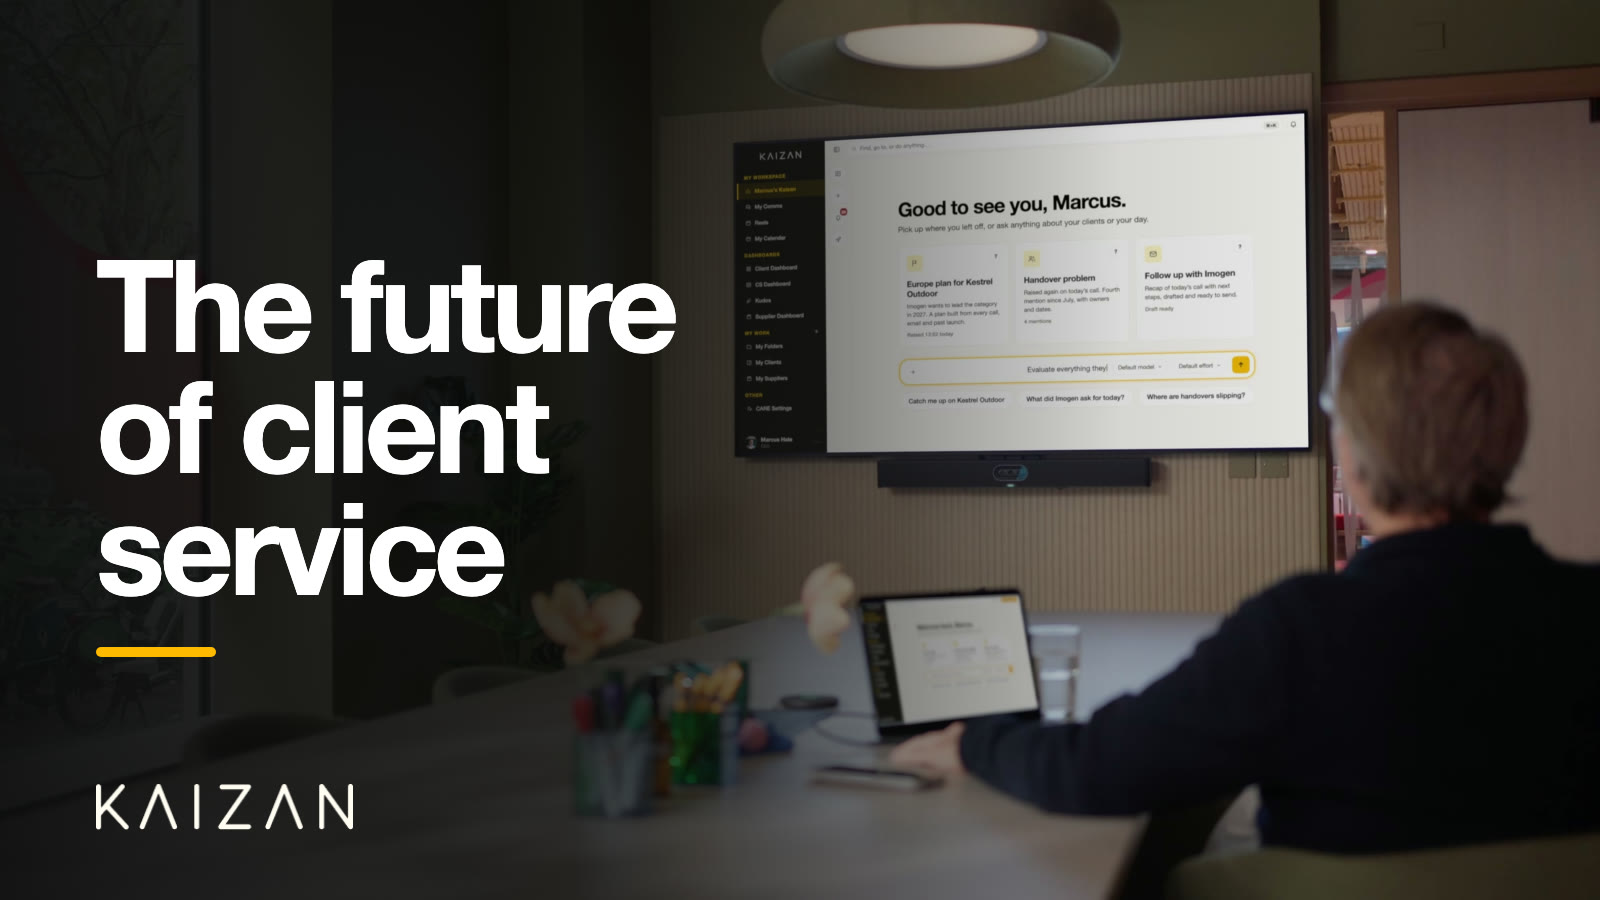
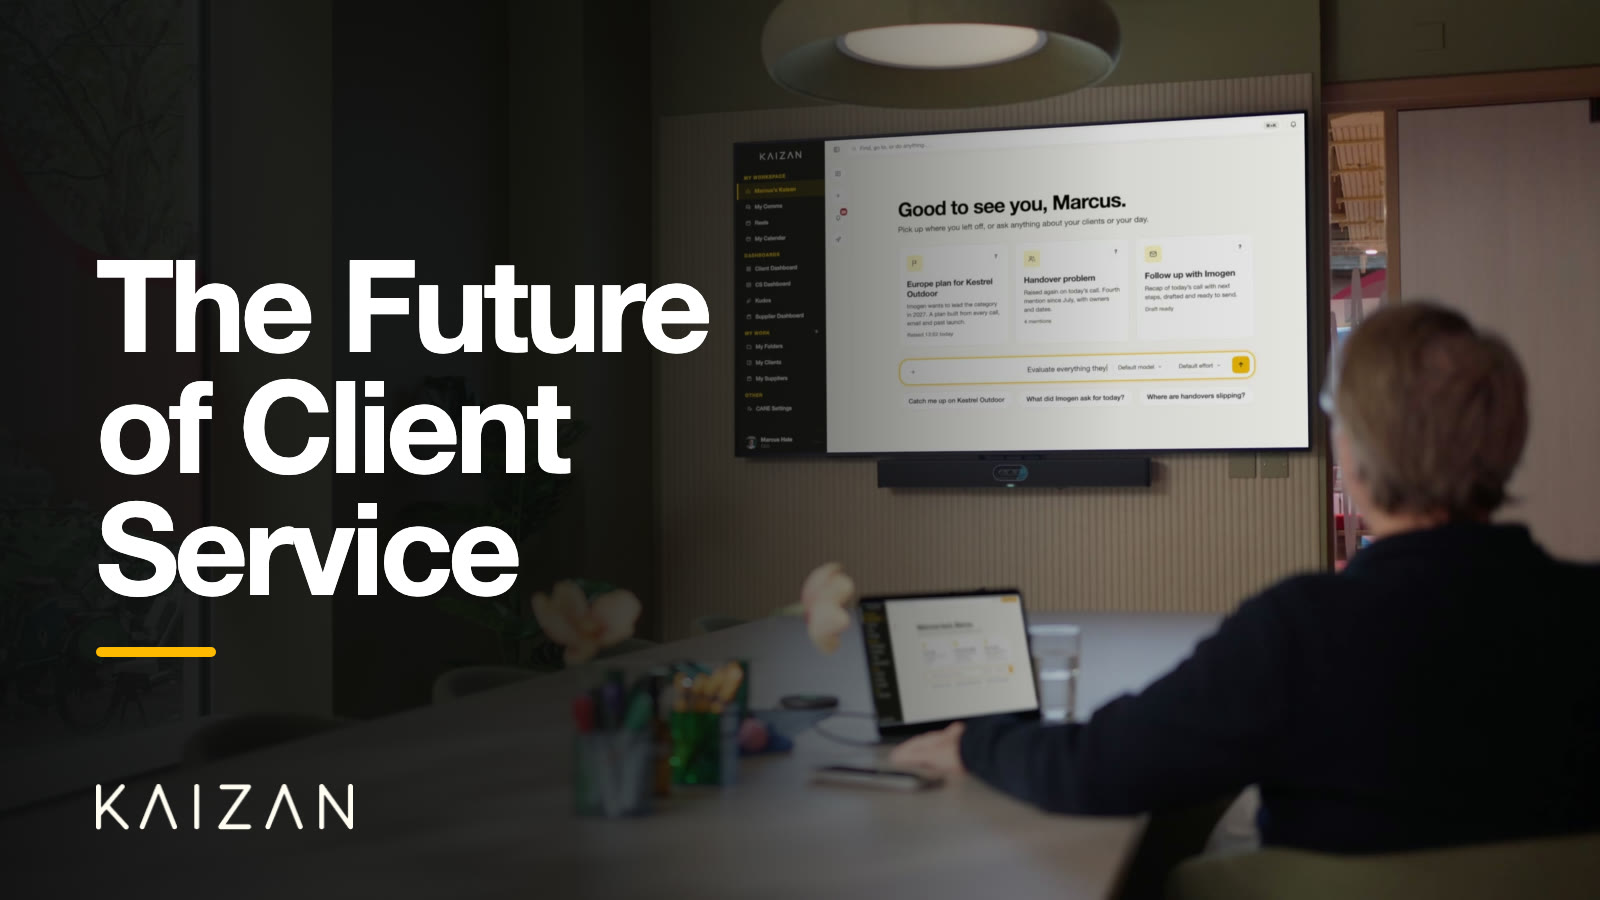
Feature post title case and subheading; "Watch the video" on home and product heroes
- "The Future of Client Service" in title case (page, card, cover image), with the
  film's opening line as the hero subheading.
- A "Watch the video" button under "Book a demo" on the home and product heroes,
  styled like it, linking to the film on the feature post.
- Product hero buttons as round pills; "Book a demo" without the arrow.

Changed region(s): [[0.1562, 0.28, 0.4688, 0.5289], [0.0625, 0.56, 0.3438, 0.6844]]

diff --git a/assets/css/site.css b/assets/css/site.css
@@ -455,7 +455,16 @@ button { font-family: inherit; }
   margin: 0; max-width: 44ch;
   font-size: 20px; line-height: 1.55; font-weight: 500; color: #3F3B2F;
 }
-.kz-hero-v2-cta { align-self: center; margin-top: auto; padding-top: 20px; }
+.kz-hero-v2-cta { align-self: center; margin-top: auto; padding-top: 20px;
+  display: flex; flex-direction: column; align-items: flex-start; gap: 12px; }
+/* "Watch the video": styled like the "Book a demo" button above it, with a play icon. */
+.kz-watch-btn { gap: 10px; }
+.kz-watch-btn-ic { width: 22px; height: 22px; border-radius: 50%; background: var(--kz-ink); position: relative; flex: none; }
+.kz-watch-btn-ic::after { content: ''; position: absolute; left: 8px; top: 6px;
+  border-left: 8px solid var(--kz-yellow); border-top: 5px solid transparent; border-bottom: 5px solid transparent; }
+.kz-cta-stack { display: flex; flex-direction: column; align-items: flex-start; gap: 12px; }
+/* Product hero: both buttons as round pills, like the home page's. */
+.kz-cta-stack .kz-btn { border-radius: 999px; }
 .kz-hero-pill {
   display: inline-flex; align-items: center; justify-content: center;
   background: var(--kz-yellow); color: var(--kz-ink); font-size: 16px; font-weight: 700;

diff --git a/tools/build.py b/tools/build.py
@@ -1829,6 +1829,17 @@ def trial_done_inner_html() -> str:
             14-day trial set up.</p>'''
 
 
+FEATURE_FILM = 'blog/ai-for-client-service/future-of-client-service/#film'
+
+
+def watch_video_btn(depth: int, cls: str = 'kz-hero-pill', style: str = '') -> str:
+    """Hero button under "Book a demo", styled exactly like it (pass that button's classes and
+    style): opens the Kaizan video on its feature post."""
+    style_attr = f' style="{style}"' if style else ''
+    return (f'<a class="{cls} kz-watch-btn" href="{relpath(depth)}{FEATURE_FILM}"{style_attr}>'
+            '<span class="kz-watch-btn-ic" aria-hidden="true"></span>Watch the video</a>')
+
+
 def trial_hero_copy_html(depth: int) -> str:
     """The hero headline/lede/checks/CTA-stack that sits beside the trial card
     on the home hero. Shared with render_confirmation() so the /confirmation/
@@ -3226,8 +3237,9 @@ def render_product() -> str:
           Client News shares market intel that affects clients.
           Together they form a system of truth and action for your client teams.
         </p>
-        <div class="cta">
-          <a class="kz-btn kz-btn-yellow" style="padding:14px 22px;" href="/demo/">Book a demo →</a>
+        <div class="cta kz-cta-stack">
+          <a class="kz-btn kz-btn-yellow" style="padding:14px 22px;" href="/demo/">Book a demo</a>
+          {watch_video_btn(1, 'kz-btn kz-btn-yellow', 'padding:14px 22px;')}
         </div>
       </div>
       <div class="kz-pillar-bubbles kz-reveal-row" data-reveal-row>
@@ -7791,6 +7803,7 @@ def _cs_hero_copy_html(depth: int, home: bool = False) -> str:
           <p class="kz-hero-v2-lede">{lede}</p>
           <div class="kz-hero-v2-cta">
             <a class="kz-hero-pill" href="{p}demo/">Book a demo</a>
+            {watch_video_btn(depth) if home else ''}
           </div>
         </div>
       </div>'''

diff --git a/content/blog/future-of-client-service/index.md b/content/blog/future-of-client-service/index.md
@@ -1,5 +1,5 @@
 ---
-title: The future of client service
+title: The Future of Client Service
 date: 2026-11-16
 author: Kaizan
 category: POV
@@ -7,6 +7,7 @@ topic: ai-for-client-service
 layout: feature
 hero: hero.jpg
 closing: This is what Kaizan does
+dek: What if AI agents helped you achieve more for every client?
 excerpt: Agencies and consultancies are being asked to do more for the same fee. The firms pulling ahead are building one client memory that everything else draws on.
 cover: cover.jpg
 draft: false
